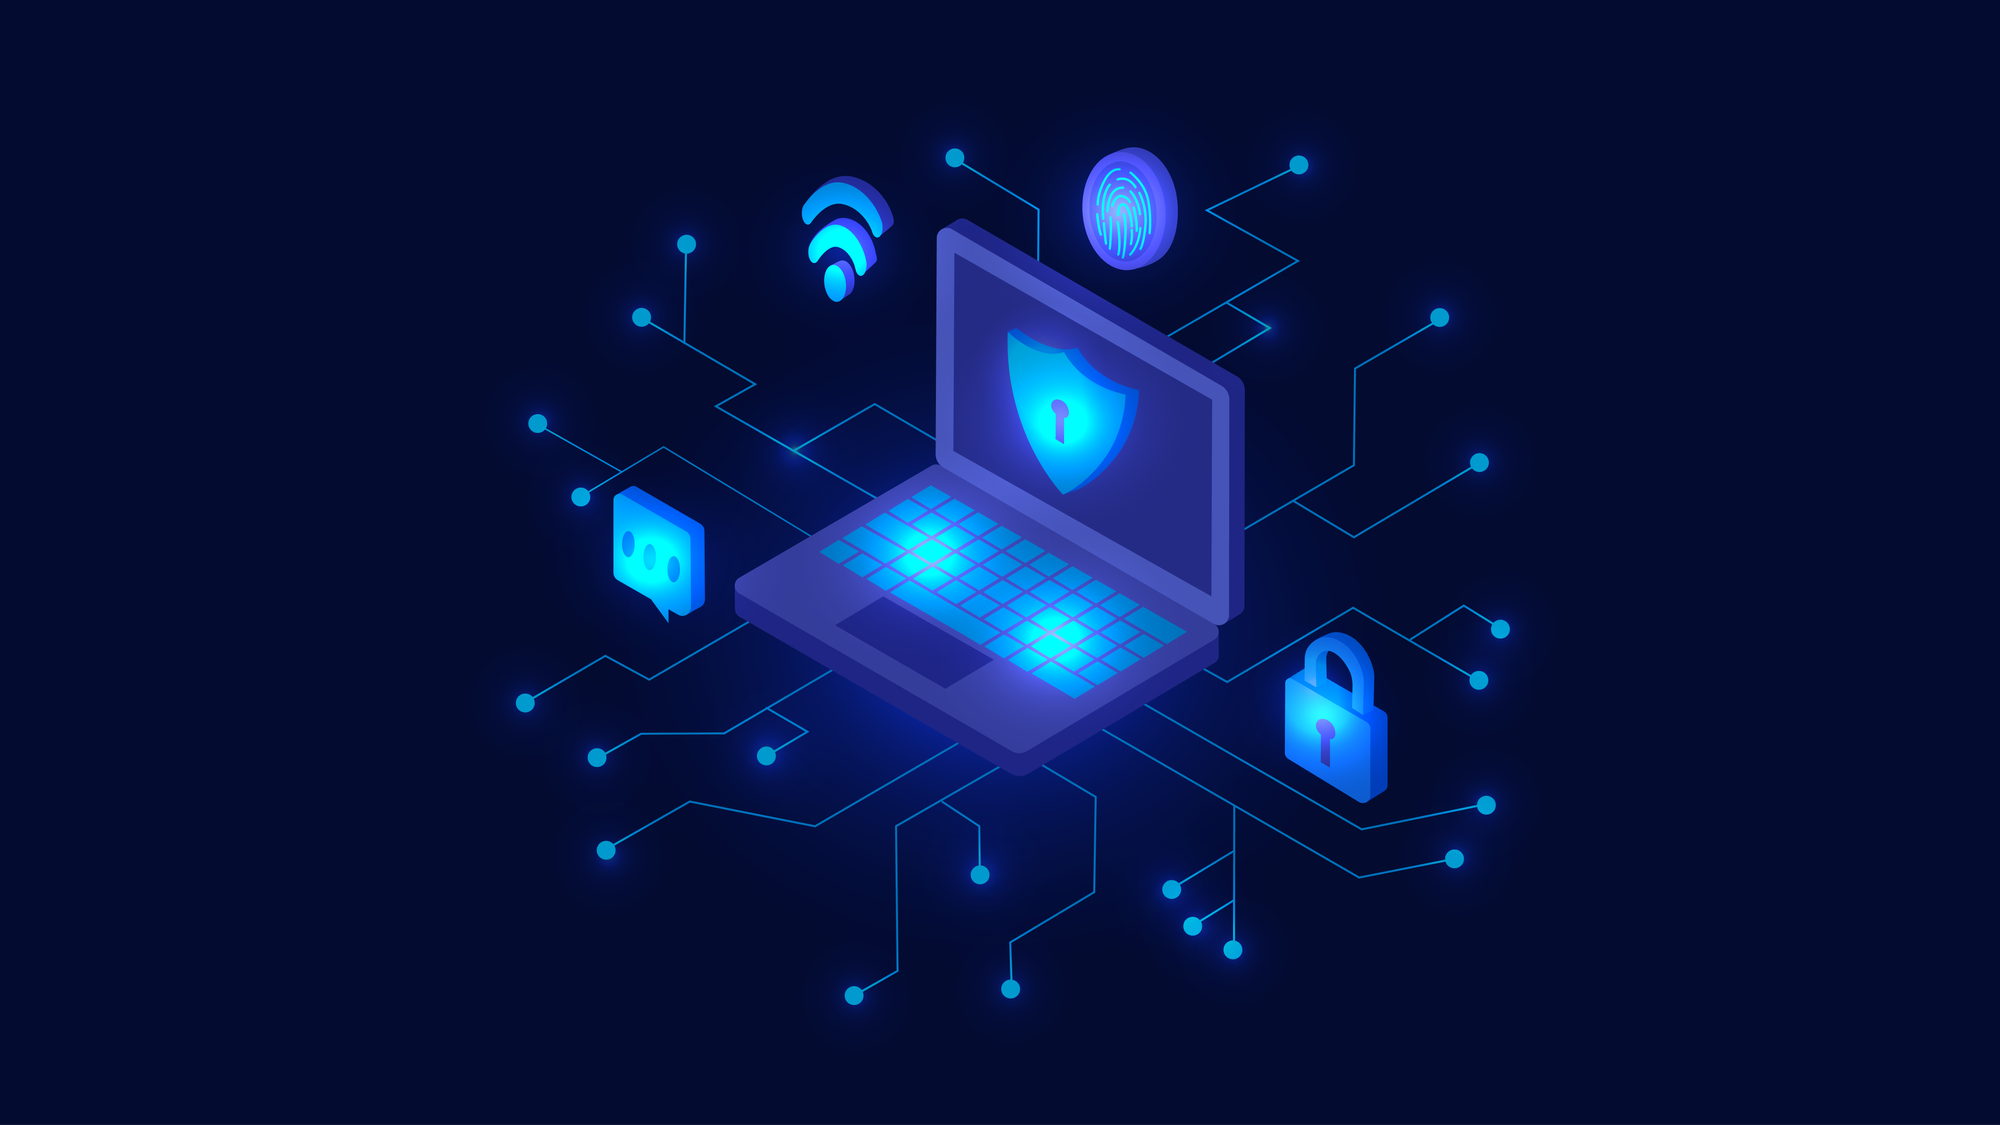
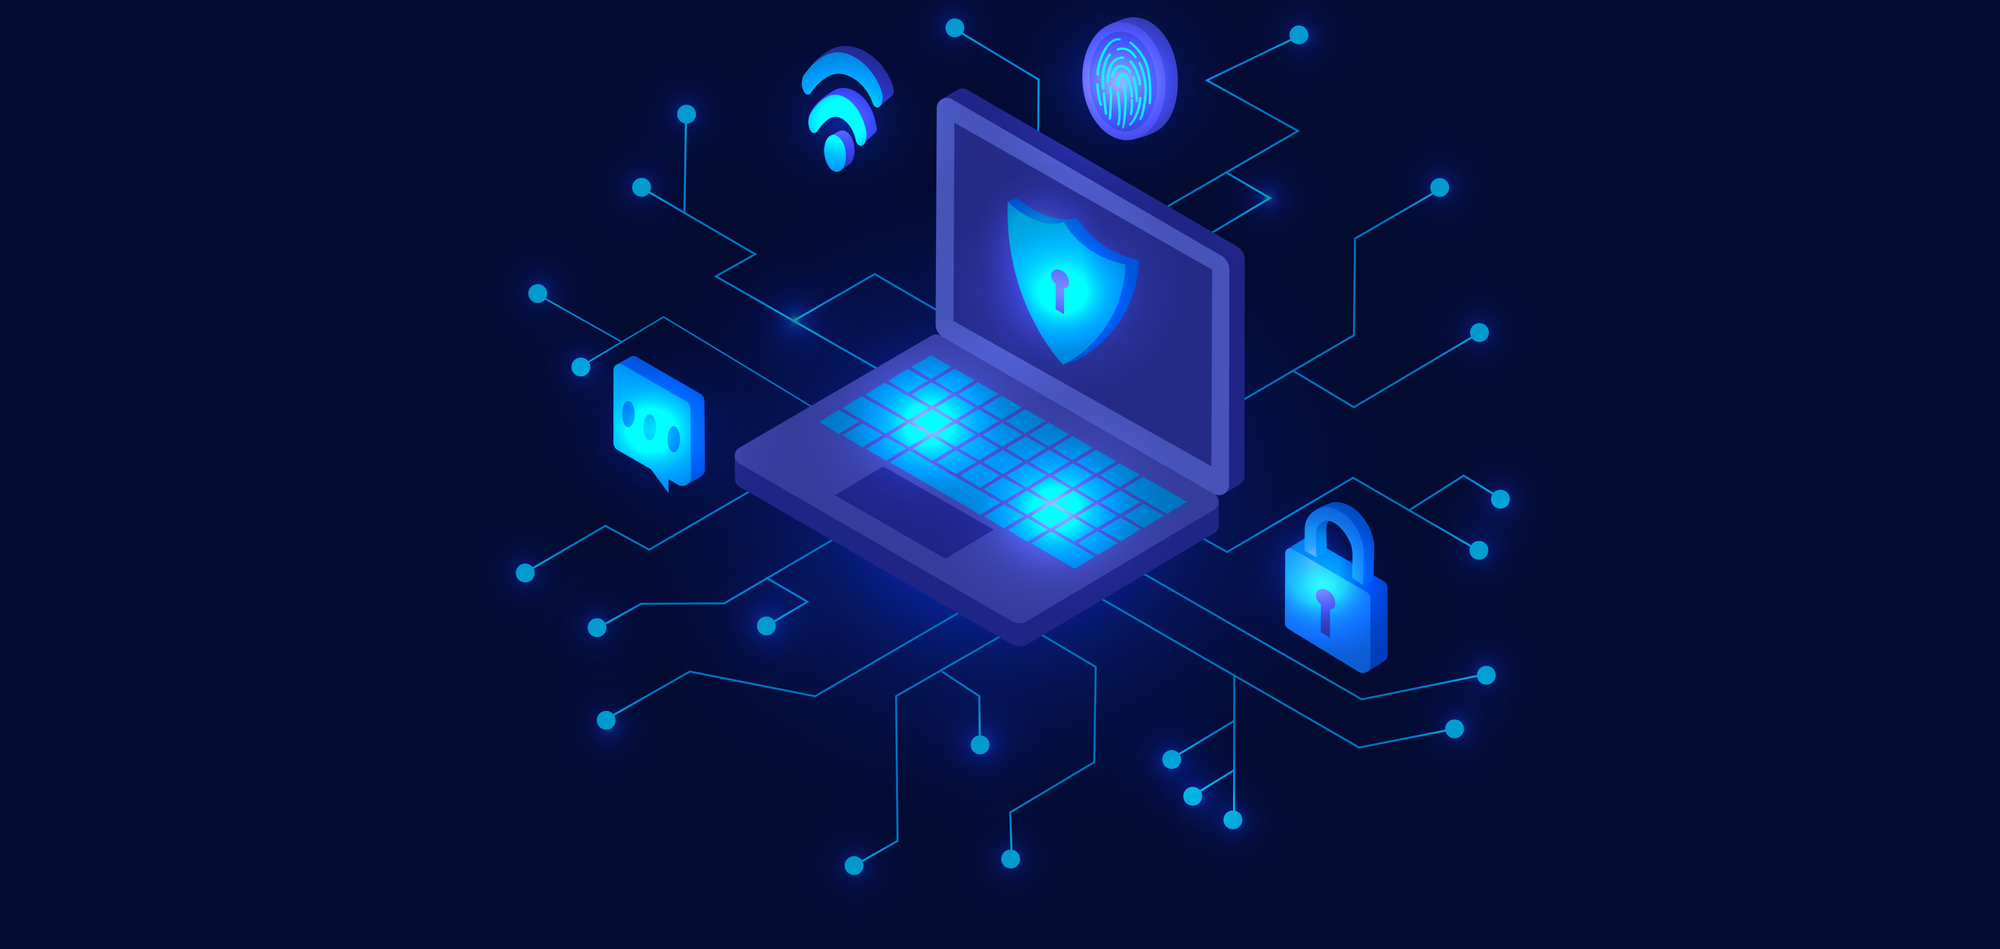
Chagne with 0528 Feedback

diff --git a/src/App.js b/src/App.js
@@ -32,7 +32,7 @@ function App() {
             {[
               "about",
               "services",
-              "references",
+              "specialist",
               "recruit",
               "contact",
             ].map((section) => (
@@ -45,8 +45,8 @@ function App() {
                   ? "About"
                   : section === "services"
                   ? "Services"
-                  : section === "references"
-                  ? "References"
+                  : section === "specialist"
+                  ? "Specialist"
                   : section === "recruit"
                   ? "Recruit"
                   : "Contact"}
@@ -59,13 +59,13 @@ function App() {
       <div className="h-20"></div>
 
       {/* 홈 섹션 */}
-      <section id="home" className="relative h-screen w-full">
+      <section id="home" className="relative h-[66vh] w-full">
         <img
           src="/main.png"
           alt="메인 배경"
           className="absolute inset-0 w-full h-full object-cover"
         />
-        <div className="absolute bottom-20 w-full text-center px-4">
+        <div className="absolute bottom-10 w-full text-center px-4">
           <h2 className="text-4xl md:text-5xl font-bold mb-4 text-white drop-shadow">
             정보보안의 새로운 기준
           </h2>
@@ -74,6 +74,7 @@ function App() {
           </p>
         </div>
       </section>
+
 
       {/* 회사소개 */}
       <section id="about" className="py-20 max-w-6xl mx-auto flex flex-col md:flex-row items-center gap-8 px-4">
@@ -102,102 +103,170 @@ function App() {
       <section id="services" className="py-20 max-w-6xl mx-auto px-4">
         <h3 className="text-3xl font-bold text-center mb-12">Services</h3>
         <div className="grid md:grid-cols-2 lg:grid-cols-3 gap-10">
-          {[
-            "정보보호 관리 체계/인증 컨설팅",
-            "정보보호 아키텍처 수립",
-            "웹 어플리케이션 해킹",
-            "모바일 어플리케이션 해킹",
-            "시나리오 기반 시스템 해킹",
-            "인프라 취약점 진단",
-          ].map((title) => (
-            <ServiceCard key={title} title={title} />
-          ))}
+          <ServiceCard
+            title="정보보호 관리 체계/인증 컨설팅"
+            description="ISMS-P, ISO27001 등 주요 보안 인증을 위한 체계적 컨설팅을 지원합니다."
+          />
+          <ServiceCard
+            title="정보보호 솔루션 제공"
+            description="고객 환경에 최적화된 보안 솔루션을 제안합니다."
+          />
+          <ServiceCard
+            title="웹 어플리케이션 해킹"
+            description="최신 웹 공격 기법을 반영한 실전 모의해킹으로 보안 취약점을 진단합니다."
+          />
+          <ServiceCard
+            title="모바일 어플리케이션 해킹"
+            description="Android, iOS 앱에 대한 정밀 해킹 테스트로 보안 위협을 사전에 차단합니다."
+          />
+          <ServiceCard
+            title="시나리오 기반 시스템 해킹"
+            description="현실적인 공격 시나리오를 기반으로 내부 시스템의 방어력을 검증합니다."
+          />
+          <ServiceCard
+            title="인프라 취약점 진단"
+            description="전반적인 IT 인프라의 보안 취약점을 종합적으로 진단합니다."
+          />
         </div>
       </section>
 
-      {/* 레퍼런스 */}
-      <section id="references" className="py-20 bg-white">
-        <div className="max-w-4xl mx-auto px-4">
-          <h3 className="text-3xl font-bold text-center mb-12">References</h3>
-          <div className="space-y-8">
-            <div>
-              <h4 className="text-xl font-semibold text-blue-600 mb-2">2024년</h4>
-              <ul className="list-disc list-inside space-y-1">
-                <li>신한은행 - 금융 보안 취약점 진단 사업</li>
-                <li>현대자동차 - 보안 취약점 진단 사업</li>
-              </ul>
+
+      {/* 전문가 섹션 */}
+      <section id="specialist" className="py-20 max-w-6xl mx-auto px-4">
+        {/* 제목 */}
+        <h3 className="text-3xl font-bold text-center mb-12">Specialist</h3>
+
+        <div className="flex flex-col md:flex-row items-center gap-8">
+          {/* 문구 영역 */}
+          <div className="md:w-1/2 flex flex-col gap-6">
+            <div className="bg-white p-6 rounded-xl shadow-md text-gray-800 text-lg leading-relaxed font-sans">
+              <p>
+                체계적인 사내 교육 시스템과 실전 중심의 기술 트레이닝을 통해
+                정보보안 분야의 전문성과 실무 능력을 고루 갖춘 인재를 육성합니다.
+              </p>
             </div>
-            <div>
-              <h4 className="text-xl font-semibold text-blue-600 mb-2">2025년</h4>
-              <ul className="list-disc list-inside space-y-1">
-                <li>하이픈코퍼레이션 - 보안 취약점 진단 사업</li>
-                <li>한국정보통신(KICC) - 보안 취약점 진단 사업</li>
-                <li>금융보안원 - 금융 보안 취약점 진단 사업</li>
-                <li>두나무 - 보안 취약점 진단 사업</li>
-              </ul>
+            <div className="bg-white p-6 rounded-xl shadow-md text-gray-800 text-lg leading-relaxed font-sans">
+              <p>
+                자기계발을 위한 자격 취득 지원 및 커리어 성장 프로그램을 운영하며,
+                고객에게는 검증된 최고 수준의 기술 인력을 안정적으로 제공합니다.
+              </p>
             </div>
           </div>
+
+          {/* 이미지 영역 */}
+          <img
+            src="/specialist.png"
+            alt="정보보안 전문가 교육"
+            className="w-full md:w-1/2 rounded-lg shadow-lg"
+          />
         </div>
       </section>
+
 
       {/* 채용 */}
       <section id="recruit" className="py-20 bg-gray-50">
         <div className="max-w-5xl mx-auto px-4 text-center">
           <h3 className="text-3xl font-bold mb-12">Recruit</h3>
           <div className="flex flex-col md:flex-row items-center justify-center space-y-8 md:space-y-0 md:space-x-6">
-            <RecruitStep number="1" label="서류전형" />
+            <RecruitStep number="1" label="채용지원" />
             <RecruitArrow />
-            <RecruitStep number="2" label="1차면접" />
+            <RecruitStep number="2" label="서류평가" />
             <RecruitArrow />
-            <RecruitStep number="3" label="2차면접" />
+            <RecruitStep number="3" label="실무면접" />
             <RecruitArrow />
             <RecruitStep number="4" label="임원면접" />
             <RecruitArrow />
             <RecruitStep number="5" label="최종합격" />
           </div>
+
           {/* 채용 상세 정보 */}
           <div className="mt-16 bg-white p-8 rounded-xl shadow-md text-left text-gray-800 space-y-6">
-            <h4 className="text-2xl font-bold mb-4">포지션 및 자격요건</h4>
+            {/* 상단 큰 제목 */}
+            <h4 className="text-2xl font-bold mb-8 text-blue-700 border-b-4 border-blue-200 pb-2 inline-block">
+              포지션 및 자격요건
+            </h4>
 
+            {/* 하위 항목들 */}
             <div>
-              <h5 className="font-semibold mb-1">담당업무</h5>
+              <h5 className="text-lg font-semibold text-gray-900 border-l-4 border-blue-500 pl-3 mb-2">
+                담당업무
+              </h5>
               <ul className="list-disc list-inside text-gray-700 ml-4 space-y-1">
                 <li>웹/ 모바일 취약점 진단</li>
                 <li>인프라 취약점 진단</li>
-                <li>시나리오 시스템 모의해킹</li>
               </ul>
             </div>
 
             <div>
-              <h5 className="font-semibold mb-1">스킬</h5>
-              <p className="ml-4 text-gray-700">JAVA, 컴퓨터활용능력, 웹해킹, 모바일 해킹</p>
+              <h5 className="text-lg font-semibold text-gray-900 border-l-4 border-blue-500 pl-3 mb-2">
+                스킬
+              </h5>
+              <ul className="list-disc list-inside text-gray-700 ml-4">
+                <li>JAVA, 컴퓨터활용능력, 웹해킹, 모바일 해킹</li>
+              </ul>
             </div>
 
             <div>
-              <h5 className="font-semibold mb-1">핵심역량</h5>
-              <p className="ml-4 text-gray-700">성실성, 성장지향성, 적응성</p>
+              <h5 className="text-lg font-semibold text-gray-900 border-l-4 border-blue-500 pl-3 mb-2">
+                핵심역량
+              </h5>
+              <ul className="list-disc list-inside text-gray-700 ml-4">
+                <li>성실성, 성장지향성, 적응성</li>
+              </ul>
             </div>
 
             <div>
-              <h5 className="font-semibold mb-1">자격요건</h5>
+              <h5 className="text-lg font-semibold text-gray-900 border-l-4 border-blue-500 pl-3 mb-2">
+                자격요건
+              </h5>
               <ul className="list-disc list-inside text-gray-700 ml-4 space-y-1">
-                <li>학력: 대졸이상 (졸업 예정자 가능)</li>
+                <li>학력: 4년제 대졸이상 (졸업 예정자 가능)</li>
                 <li>경력: 신입/경력</li>
               </ul>
             </div>
 
             <div>
-              <h5 className="font-semibold mb-1">우대사항</h5>
+              <h5 className="text-lg font-semibold text-gray-900 border-l-4 border-blue-500 pl-3 mb-2">
+                우대사항
+              </h5>
               <ul className="list-disc list-inside text-gray-700 ml-4 space-y-1">
                 <li>문서작성 우수자</li>
                 <li>관련 자격증 보유자</li>
                 <li>자격증: 정보보안기사, 정보처리기사</li>
               </ul>
             </div>
+
+            <div>
+              <h5 className="text-lg font-semibold text-gray-900 border-l-4 border-blue-500 pl-3 mb-2">
+                복리후생
+              </h5>
+              <div className="flex justify-between items-start">
+                <ul className="list-disc list-inside text-gray-700 ml-4 space-y-1">
+                  <li>창립일 휴무</li>
+                  <li>성과급</li>
+                  <li>연차수당</li>
+                  <li>웰컴키트</li>
+                  <li>장비 지원</li>
+                  <li>멘토링 제도</li>
+                  <li>신입 사원 교육</li>
+                  <li>자격증취득지원</li>
+                </ul>
+                <a
+                  href="https://www.jobkorea.co.kr/Recruit/GI_Read/46724631?Oem_Code=C1&logpath=1&stext=%ED%81%90%EB%B8%8C%EB%84%A4%ED%8A%B8%EC%9B%8D%EC%8A%A4&listno=1&sc=631"
+                  target="_blank"
+                  rel="noopener noreferrer"
+                  className="ml-8 mt-[12rem] bg-blue-600 hover:bg-blue-700 text-white px-6 py-3 rounded-lg font-semibold shadow-md transition duration-300 whitespace-nowrap self-start"
+                >
+                  지원하기
+                </a>
+              </div>
+            </div>
           </div>
 
         </div>
       </section>
+
+
 
       {/* 연락처 */}
       <section id="contact" className="py-20 bg-gray-50">
@@ -229,23 +298,24 @@ function App() {
       <footer className="bg-white text-black text-center py-6 mt-10 border-t border-gray-200">
         <div className="flex items-center justify-center gap-2">
           <img src="/logo1.jpg" alt="Cub Networks Logo" className="h-6" />
-          <p className="text-sm">© 2025 Cub Networks. All rights reserved.</p>
+          <p className="text-sm">© 2025 CuB Networks. All rights reserved.</p>
         </div>
       </footer>
     </div>
   );
 }
 
-function ServiceCard({ title }) {
+function ServiceCard({ title, description }) {
   return (
     <div className="bg-white p-6 shadow-md hover:shadow-xl transition-shadow duration-300 rounded-xl text-center hover:-translate-y-1 transform">
       <h4 className="font-semibold text-lg text-blue-700 mb-2">{title}</h4>
       <p className="text-gray-600 text-sm leading-relaxed">
-        전문가 컨설팅과 맞춤형 진단을 통해 최적의 보안 솔루션을 제공합니다.
+        {description}
       </p>
     </div>
   );
 }
+
 
 function RecruitStep({ number, label }) {
   return (

diff --git a/public/index.html b/public/index.html
@@ -2,14 +2,14 @@
 <html lang="en">
   <head>
     <meta charset="utf-8" />
-    <link rel="icon" href="%PUBLIC_URL%/favicon.ico" />
+    <link rel="icon" href="%PUBLIC_URL%/logo2.png" />
     <meta name="viewport" content="width=device-width, initial-scale=1" />
     <meta name="theme-color" content="#000000" />
     <meta
       name="description"
       content="Web site created using create-react-app"
     />
-    <link rel="apple-touch-icon" href="%PUBLIC_URL%/logo192.png" />
+    <!--<link rel="apple-touch-icon" href="%PUBLIC_URL%/logo192.png" />-->
     <!--
       manifest.json provides metadata used when your web app is installed on a
       user's mobile device or desktop. See https://developers.google.com/web/fundamentals/web-app-manifest/
